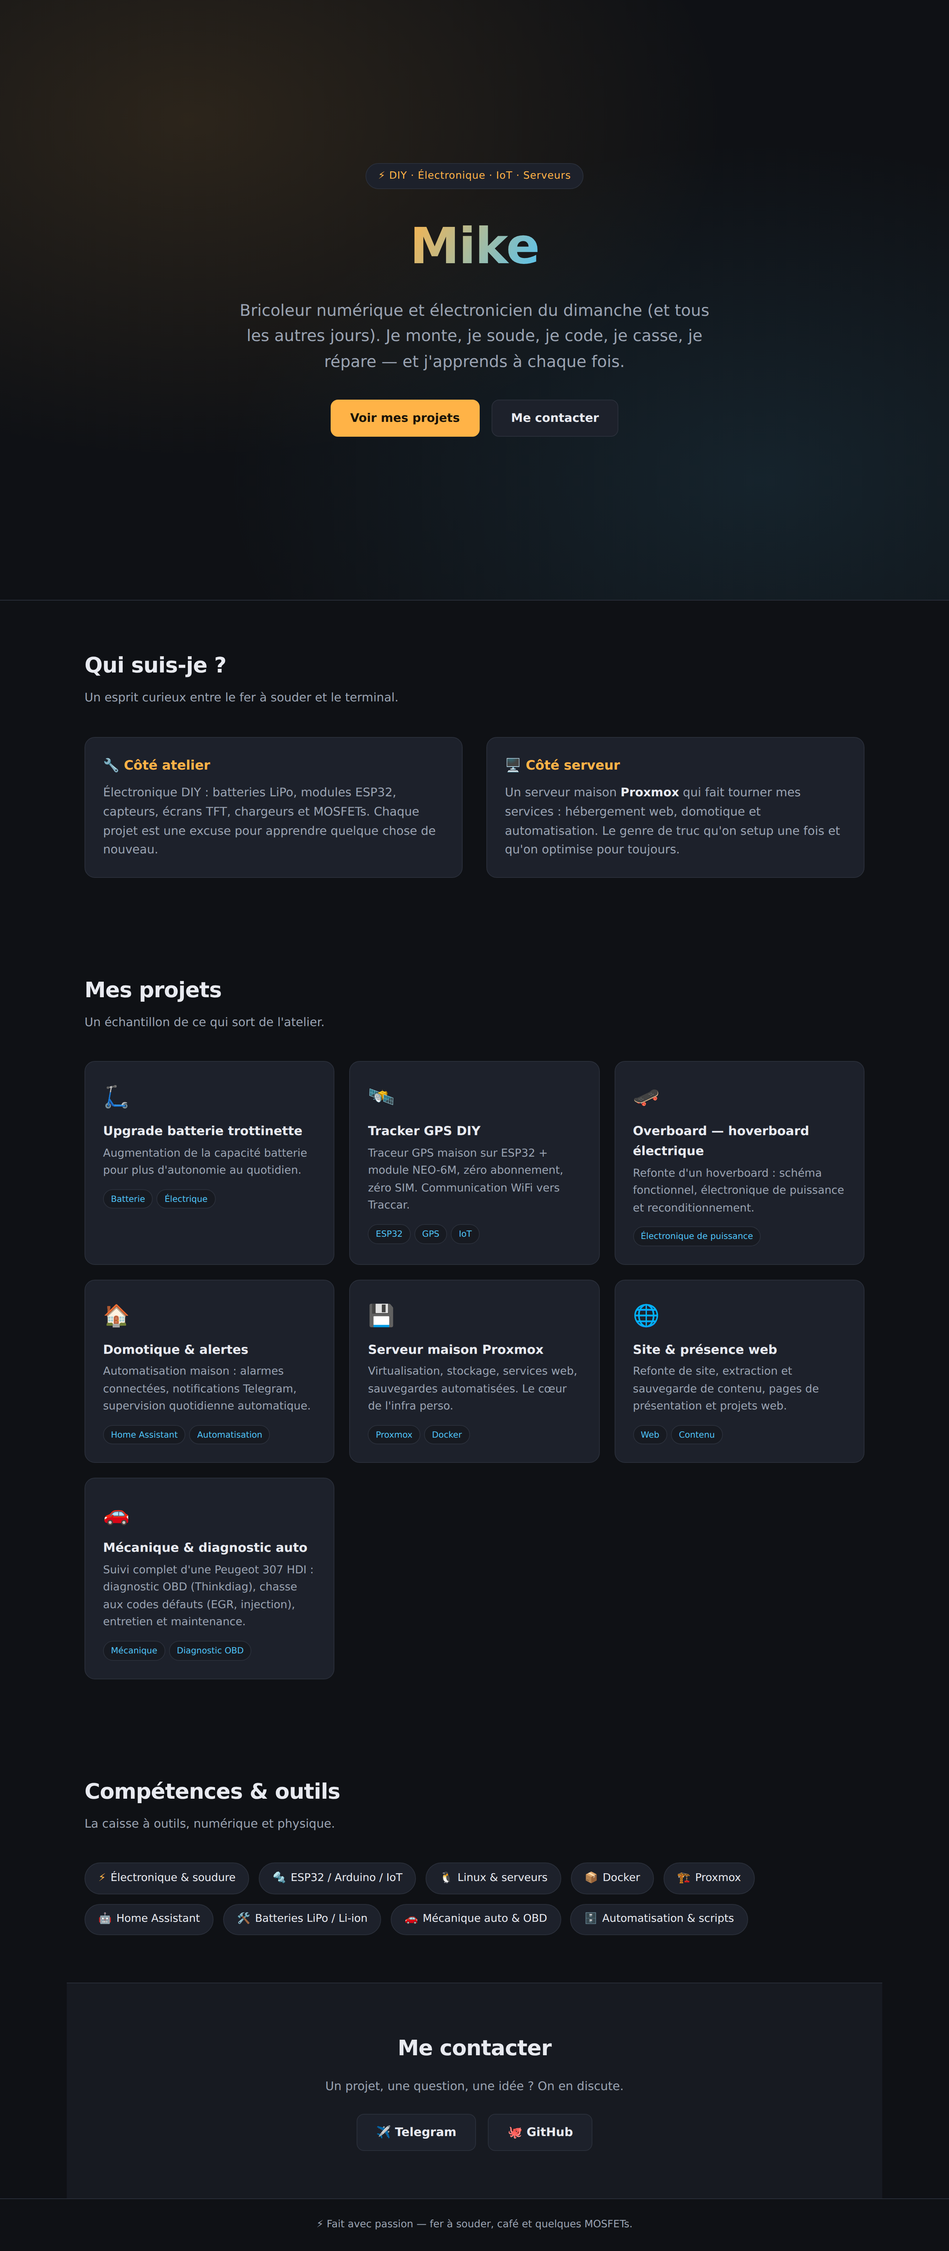
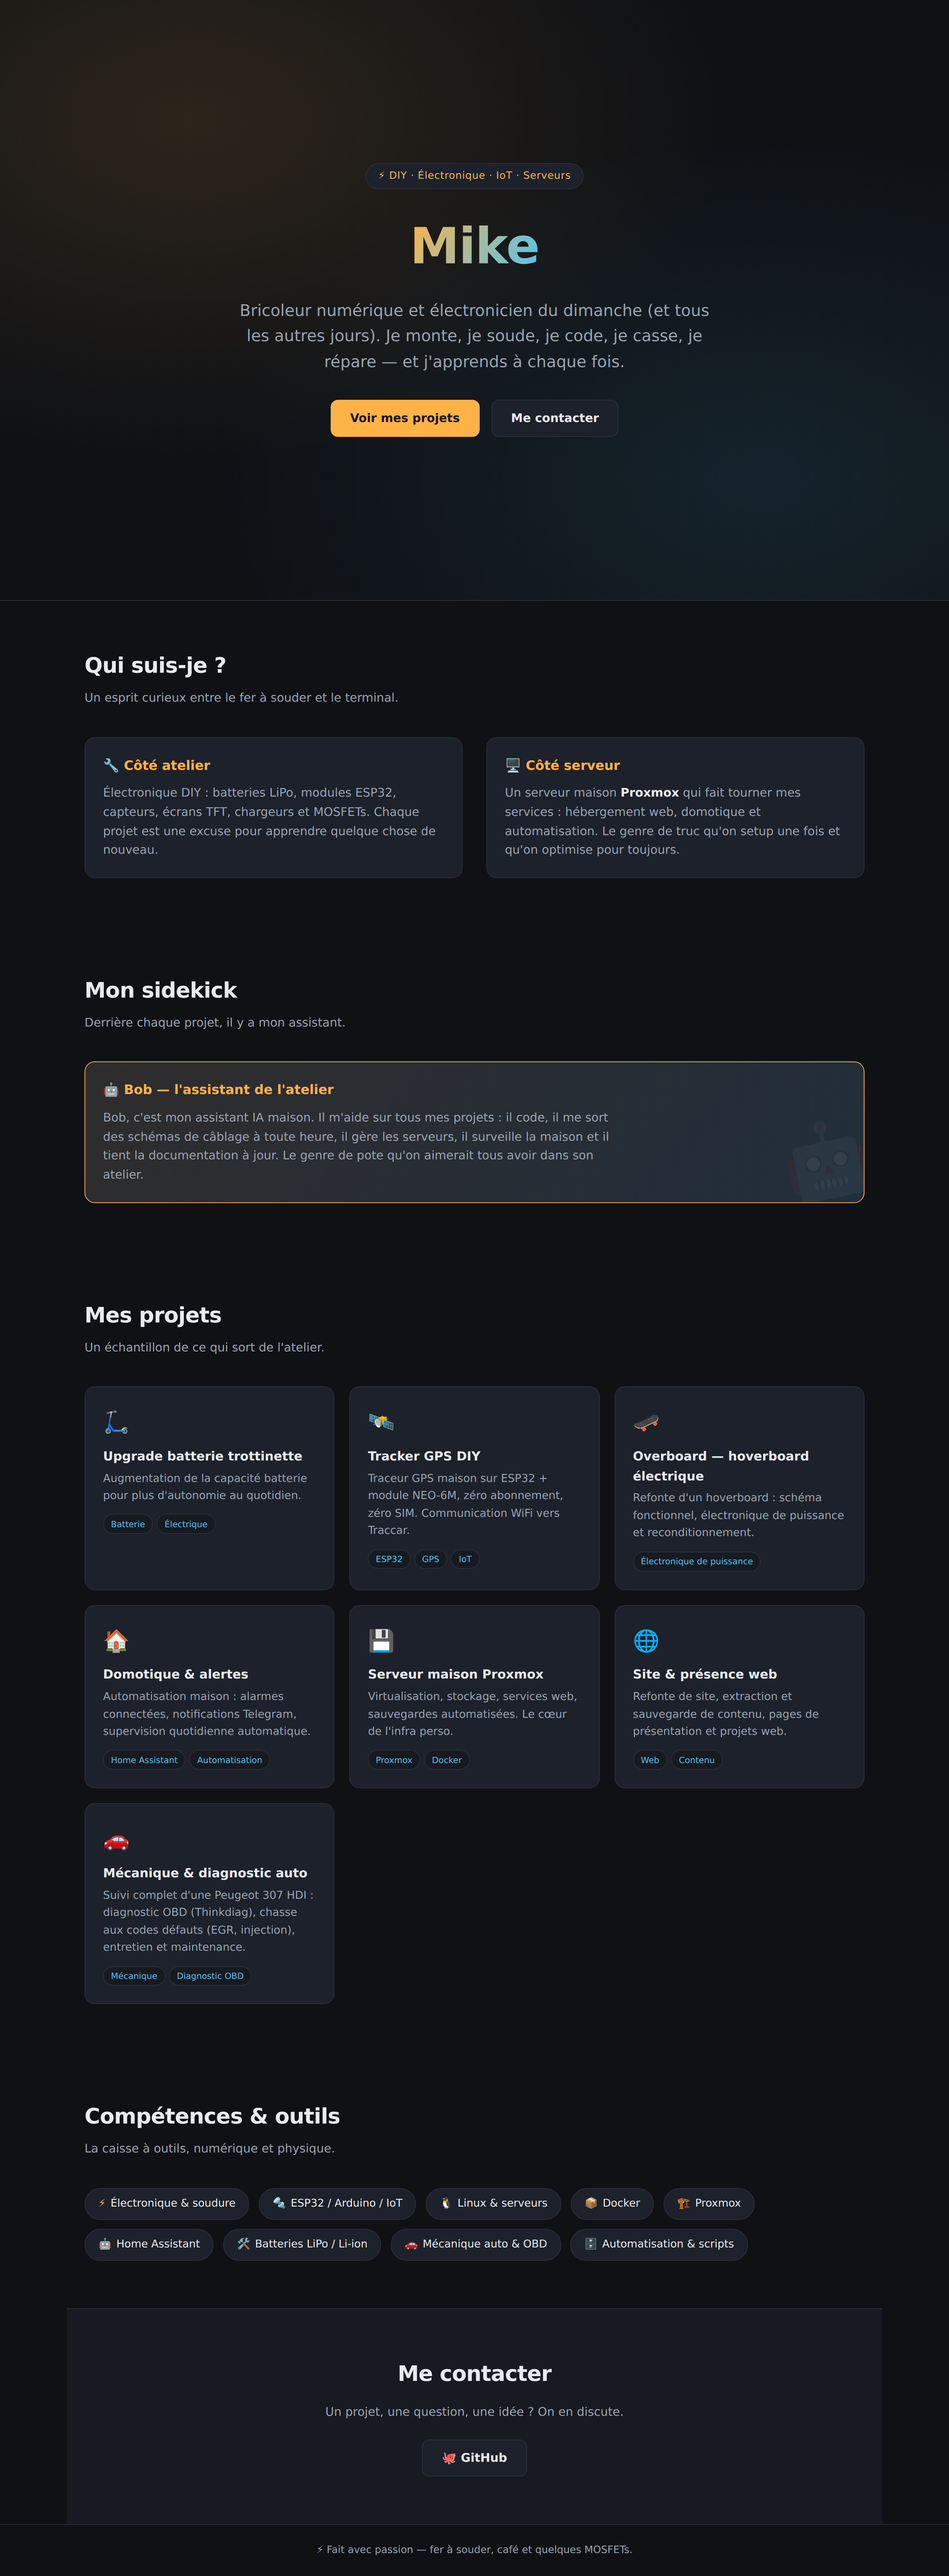
Ajout section Bob + retrait Telegram + projet mécanique

diff --git a/index.html b/index.html
@@ -114,6 +114,27 @@
   }
   .about-card h3 { color: var(--accent); margin-bottom: .6rem; font-size: 1.1rem; }
 
+  /* BOB */
+  .bob-card {
+    background: linear-gradient(135deg, rgba(255,179,71,.08), rgba(79,195,247,.08)), var(--card);
+    border: 1px solid var(--accent);
+    border-radius: 14px;
+    padding: 1.5rem;
+    position: relative;
+    overflow: hidden;
+  }
+  .bob-card::after {
+    content: "🤖";
+    position: absolute;
+    right: -10px;
+    bottom: -20px;
+    font-size: 6rem;
+    opacity: .08;
+    transform: rotate(-12deg);
+  }
+  .bob-card h3 { color: var(--accent); margin-bottom: .6rem; font-size: 1.1rem; }
+  .bob-card p { color: var(--muted); max-width: 700px; }
+
   /* PROJETS */
   .projects-grid {
     display: grid;
@@ -212,6 +233,21 @@
         hébergement web, domotique et automatisation. Le genre de truc qu'on setup une fois et qu'on optimise pour toujours.
       </p>
     </div>
+  </div>
+</section>
+
+<!-- BOB -->
+<section id="bob">
+  <h2>Mon sidekick</h2>
+  <p class="section-sub">Derrière chaque projet, il y a mon assistant.</p>
+  <div class="bob-card">
+    <h3>🤖 Bob — l'assistant de l'atelier</h3>
+    <p>
+      Bob, c'est mon assistant IA maison. Il m'aide sur tous mes projets :
+      il code, il me sort des schémas de câblage à toute heure, il gère les serveurs,
+      il surveille la maison et il tient la documentation à jour.
+      Le genre de pote qu'on aimerait tous avoir dans son atelier.
+    </p>
   </div>
 </section>
 
